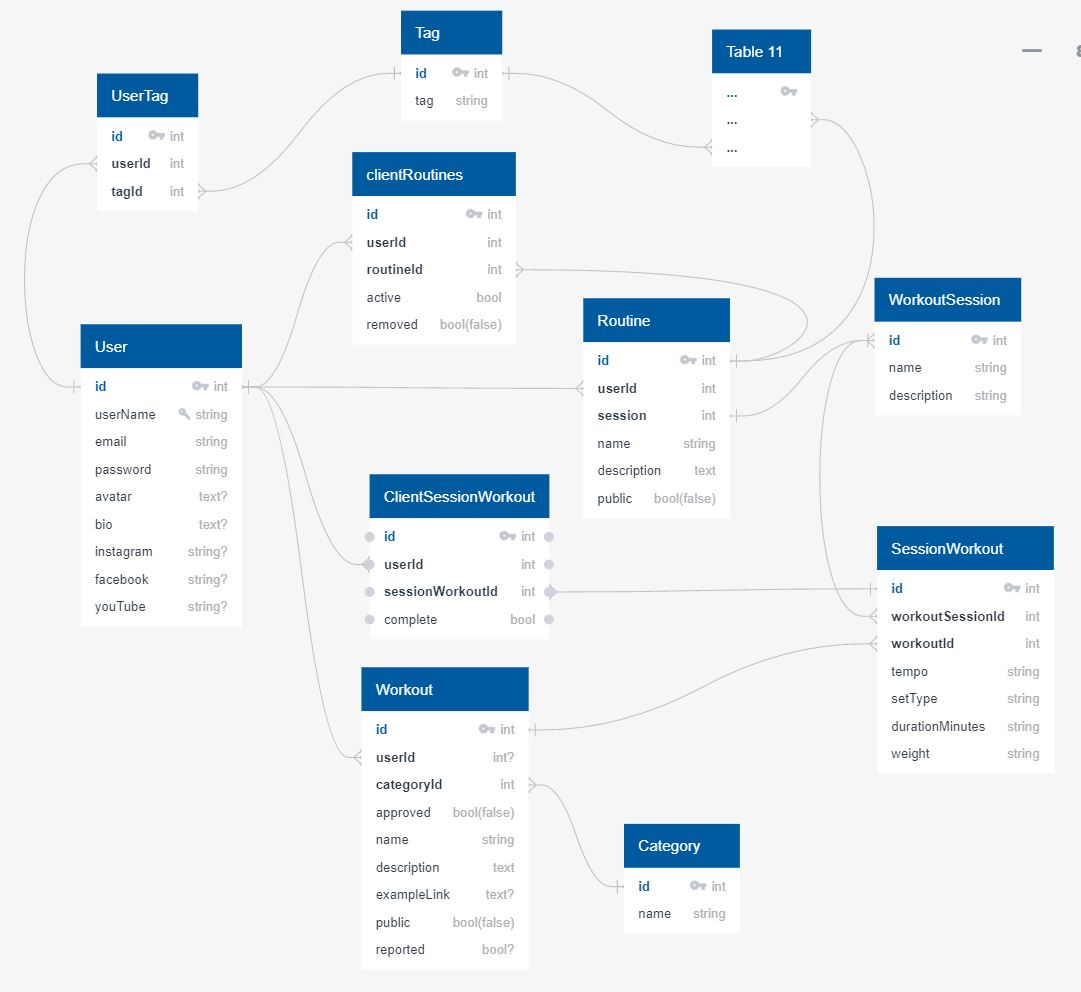
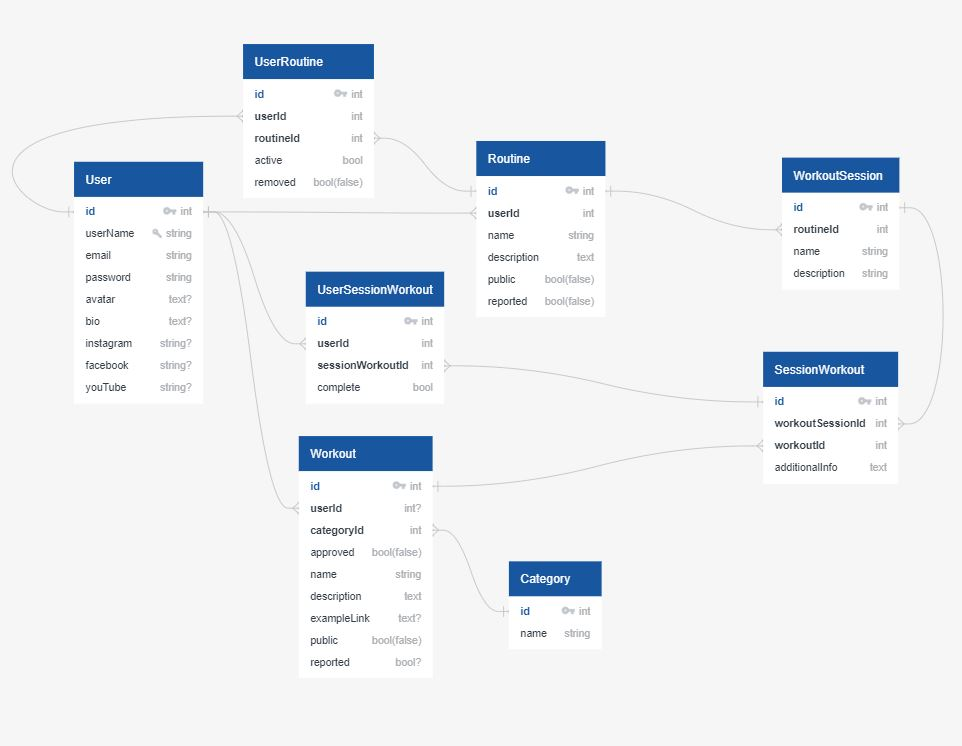
documentation

diff --git a/Documentation/Schema/schema.md b/Documentation/Schema/schema.md
@@ -4,11 +4,32 @@
 
 ## Tables
 * User
-*
+  > The user table will store any information directly and only pertains to the user, name, display photo, bio, social media links etc...
+* Routine
+  > Routines will contain multiple workout sessions grouping them under one name with a description to show users the broad overview of the workout program
+* Workout
+  > Each workout will have at the least a name, category, and description, ideally the workouts will also have a link that shows a user how to perform the exercise visually
+* WorkoutSession
+  > Each session will contain multiple workouts and will be capable of storing information pertaining to the single day/workout session such as muscle groups that are being targeted or just a daily goal
+* Category
+  > Categories will allow for efficient grouping of exercises aiding the the build process of each workout session and easing the burden of searching through existing workouts
+* Tag
+  > Tags will provide users with a way to flag themselves and their routines with short descriptors that may help others who are searching for like-minded workouts
+
+## Join Tables
+* UserRoutine
+  > User Routines will join many routines to many users allowing users to follow and participate in routines that are available to them but not directly created by them
+* UserSessionWorkout
+  > User session workout is designed to join user to a join table SessionWorkout, ideally this will make it much easier to record user statistics and display information to the user as to which workouts they have completed. This will also be used to collect the user's overall statistics
+* SessionWorkout
+  > Session Workout is designed to join many workouts to many workoutsessions collecting additional information on the workout specific to the session, in this way a user can select a workout and modify sub-information such as time/reps/setType on a workout without altering the workout directly, only the session workout
+* UserTag
+  > Joins users to tags in a many to many relationship
+* RoutineTag
+  > As above so below, this joins routines to tags
+
 
 ![Schema](pocketTrainerSchema.JPG)
-
-* Table 11 is a join table between Tag and Routine to allow routines to have multiple tags, the database diagram software used for this image requires a payment of $7 for access to more than ten tables, and as a struggling bootcamp student, that's just a bit outside my price range.
 
 > ## User
 
@@ -23,5 +44,103 @@
 | instagram | string | T | F | | |
 | facebook | string | T | F | | |
 | youTube | string | T | F | | |
+| updatedAt | datetype | F | F | | new Date() |
+| createdAt | datetype | F | F | | new Date() |
+
+> ## Routine
+| Column | Data Type | Nullable | Unique | Key | Default |
+|--------|-----------|----------|--------|-----|---------|
+| id | integer | F | T | PK | serial |
+| userId | integer | F | F | FK(User) | |
+| name | string | F | F | | |
+| description | text | F | F | | |
+| public | bool | F | F | | False |
+| reported | bool | F | F | | False |
+| updatedAt | datetype | F | F | | new Date() |
+| createdAt | datetype | F | F | | new Date() |
+
+> ## WorkoutSession
+| Column | Data Type | Nullable | Unique | Key | Default |
+|--------|-----------|----------|--------|-----|---------|
+| id | integer | F | T | PK | serial |
+| routineId | integer | F | F | FK(Routine) | |
+| name | string | F | F | | |
+| description | text | F | F | | |
+| updatedAt | datetype | F | F | | new Date() |
+| createdAt | datetype | F | F | | new Date() |
+
+> ## Workout
+| Column | Data Type | Nullable | Unique | Key | Default |
+|--------|-----------|----------|--------|-----|---------|
+| id | integer | F | T | PK | serial |
+| userId | integer | F | F | FK(User) | |
+| categoryId | integer | F | F | FK(Category) | |
+| name | string | F | F | | |
+| description | text | F | F | | |
+| exampleLink | text | T | F | | |
+| approved | boolean | F | F | | False |
+| public | boolean | F | F | | False |
+| reported | boolean | F | F | | False |
+| updatedAt | datetype | F | F | | new Date() |
+| createdAt | datetype | F | F | | new Date() |
+
+> ## Category
+| Column | Data Type | Nullable | Unique | Key | Default |
+|--------|-----------|----------|--------|-----|---------|
+| id | integer | F | T | PK | serial |
+| name | string | F | T | | |
+| updatedAt | datetype | F | F | | new Date() |
+| createdAt | datetype | F | F | | new Date() |
+
+> ## Tag
+| Column | Data Type | Nullable | Unique | Key | Default |
+|--------|-----------|----------|--------|-----|---------|
+| id | integer | F | T | PK | serial |
+| tag | string | F | T | | |
+| updatedAt | datetype | F | F | | new Date() |
+| createdAt | datetype | F | F | | new Date() |
+
+> ## UserRoutine
+| Column | Data Type | Nullable | Unique | Key | Default |
+|--------|-----------|----------|--------|-----|---------|
+| id | integer | F | T | PK | serial |
+| userId | integer | F | F | FK(User) | |
+| routineId | integer | F | F | FK(Routine) | |
+| active | boolean | F | F | | |
+| rmoved | boolean | F | F | | False|
+| updatedAt | datetype | F | F | | new Date() |
+| createdAt | datetype | F | F | | new Date() |
+
+> ## UserSessionWorkout
+| Column | Data Type | Nullable | Unique | Key | Default |
+|--------|-----------|----------|--------|-----|---------|
+| id | integer | F | T | PK | serial |
+| userId | integer | F | F | FK(User) | |
+| sessionWokroutId | integer | F | F | FK(SessionWorkout) | |
+| complete | boolean | F | F | | False |
+| updatedAt | datetype | F | F | | new Date() |
+| createdAt | datetype | F | F | | new Date() |
+
+> ## SessionWorkout
+| Column | Data Type | Nullable | Unique | Key | Default |
+|--------|-----------|----------|--------|-----|---------|
+| id | integer | F | T | PK | serial |
+| workoutSessionId | integer | F | F | FK(WorkoutSession) | |
+| workoutId | integer | F | F | FK(Workout)| |
+|additional workout info| consult GF | !!! | !!! | !!! | !!!
+| updatedAt | datetype | F | F | | new Date() |
+| createdAt | datetype | F | F | | new Date() |
+
+> ## UserTag
+| Column | Data Type | Nullable | Unique | Key | Default |
+|--------|-----------|----------|--------|-----|---------|
+| id | integer | F | T | PK | serial |
+| updatedAt | datetype | F | F | | new Date() |
+| createdAt | datetype | F | F | | new Date() |
+
+> ## RoutineTag
+| Column | Data Type | Nullable | Unique | Key | Default |
+|--------|-----------|----------|--------|-----|---------|
+| id | integer | F | T | PK | serial |
 | updatedAt | datetype | F | F | | new Date() |
 | createdAt | datetype | F | F | | new Date() |
